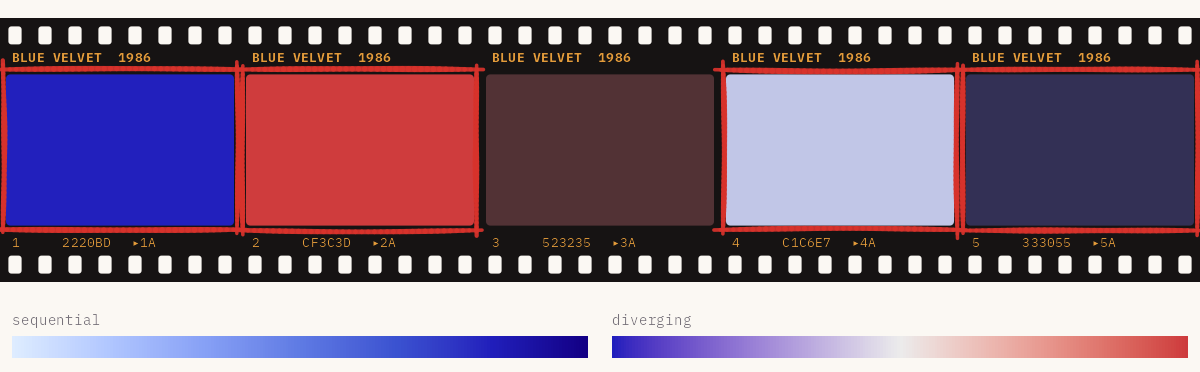
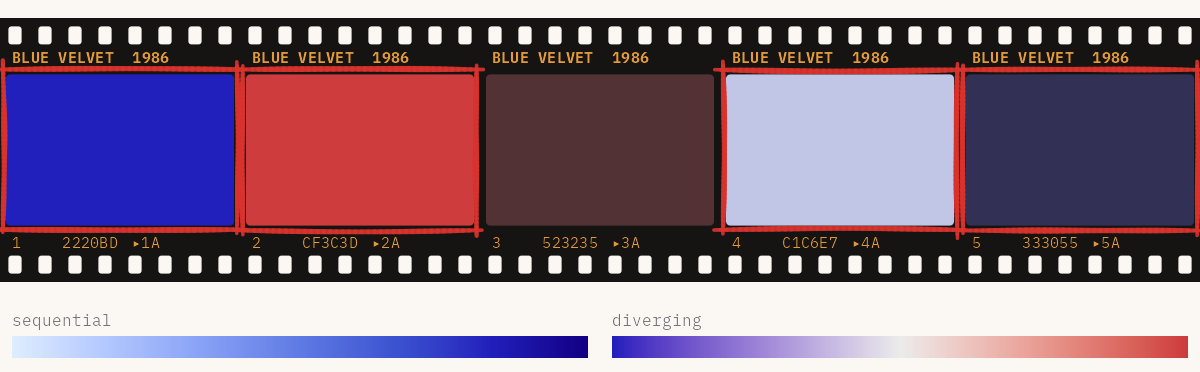
README: one block per palette, with its poster beside the film strip
Each film gets a heading, its Wikipedia poster next to the strip and a line
naming the palette and its _safe version. Edge print on the strips is a
little larger, since they now display at a smaller size.

Claude-Session: https://claude.ai/code/session_01BL4qFAtz49CSz4vjU8exbg

diff --git a/docs/index.html b/docs/index.html
@@ -101,22 +101,97 @@
 <div class="section level2">
 <h2 id="the-palettes">The palettes<a class="anchor" aria-label="anchor" href="#the-palettes"></a>
 </h2>
-<p>Most palettes were sampled from stills collected in <a href="https://www.pinterest.se/pin/151152131226891232/" class="external-link">this Pinterest pin</a>. The posters, shown from Wikipedia, are there to hold up against the colours. Twin Peaks gets the poster for <em>Fire Walk with Me</em>, the film.</p>
-<p>
-<a href="https://en.wikipedia.org/wiki/Blue_Velvet_(film)" class="external-link"><img src="https://upload.wikimedia.org/wikipedia/en/f/fd/Blue_Velvet_%281986%29.png" alt="Blue Velvet poster" height="150"></a> <a href="https://en.wikipedia.org/wiki/Dune_(1984_film)" class="external-link"><img src="https://upload.wikimedia.org/wikipedia/en/5/51/Dune_1984_Poster.jpg" alt="Dune (1984) poster" height="150"></a> <a href="https://en.wikipedia.org/wiki/Lost_Highway_(film)" class="external-link"><img src="https://upload.wikimedia.org/wikipedia/en/4/47/Lost_Higway_%281997%29.png" alt="Lost Highway poster" height="150"></a> <a href="https://en.wikipedia.org/wiki/Mulholland_Drive_(film)" class="external-link"><img src="https://upload.wikimedia.org/wikipedia/en/0/0f/Mulholland.png" alt="Mulholland Drive poster" height="150"></a> <a href="https://en.wikipedia.org/wiki/Twin_Peaks:_Fire_Walk_with_Me" class="external-link"><img src="https://upload.wikimedia.org/wikipedia/en/3/3d/Twin_Peaks_-_Fire_Walk_with_Me.png" alt="Twin Peaks: Fire Walk with Me poster" height="150"></a> <a href="https://en.wikipedia.org/wiki/Wild_at_Heart_(film)" class="external-link"><img src="https://upload.wikimedia.org/wikipedia/en/6/60/Wild_at_Heart_film_poster.jpg" alt="Wild at Heart poster" height="150"></a>
-</p>
-<p><a href="https://en.wikipedia.org/wiki/Blue_Velvet_(film)" class="external-link"><strong>Blue Velvet</strong></a> · <code>"blue_velvet"</code> · boxed frames are colour-blind safe: <code>"blue_velvet_safe"</code></p>
-<p><img src="reference/figures/card-blue_velvet.png" alt="Blue Velvet palette as a strip of film: five colour frames, the colour-blind-safe ones boxed in red marker, sequential and diverging ramps." width="100%"></p>
-<p><a href="https://en.wikipedia.org/wiki/Dune_(1984_film)" class="external-link"><strong>Dune</strong></a> · <code>"dune"</code> · boxed frames are colour-blind safe: <code>"dune_safe"</code></p>
-<p><img src="reference/figures/card-dune.png" alt="Dune palette as a strip of film: five colour frames, the colour-blind-safe ones boxed in red marker and a sequential ramp." width="100%"></p>
-<p><a href="https://en.wikipedia.org/wiki/Lost_Highway_(film)" class="external-link"><strong>Lost Highway</strong></a> · <code>"lost_highway"</code> · all five colours are colour-blind safe</p>
-<p><img src="reference/figures/card-lost_highway.png" alt="Lost Highway palette as a strip of film: five colour frames, all colour-blind safe, and a sequential ramp." width="100%"></p>
-<p><a href="https://en.wikipedia.org/wiki/Mulholland_Drive_(film)" class="external-link"><strong>Mulholland Drive</strong></a> · <code>"mulholland_drive"</code> · boxed frames are colour-blind safe: <code>"mulholland_drive_safe"</code></p>
-<p><img src="reference/figures/card-mulholland_drive.png" alt="Mulholland Drive palette as a strip of film: five colour frames, the colour-blind-safe ones boxed in red marker, sequential and diverging ramps." width="100%"></p>
-<p><a href="https://en.wikipedia.org/wiki/Twin_Peaks" class="external-link"><strong>Twin Peaks</strong></a> · <code>"twin_peaks"</code> · boxed frames are colour-blind safe: <code>"twin_peaks_safe"</code></p>
-<p><img src="reference/figures/card-twin_peaks.png" alt="Twin Peaks palette as a strip of film: five colour frames, the colour-blind-safe ones boxed in red marker, sequential and diverging ramps." width="100%"></p>
-<p><a href="https://en.wikipedia.org/wiki/Wild_at_Heart_(film)" class="external-link"><strong>Wild at Heart</strong></a> · <code>"wild_at_heart"</code> · boxed frames are colour-blind safe: <code>"wild_at_heart_safe"</code></p>
-<p><img src="reference/figures/card-wild_at_heart.png" alt="Wild at Heart palette as a strip of film: five colour frames, the colour-blind-safe ones boxed in red marker, sequential and diverging ramps." width="100%"></p>
+<p>Most palettes were sampled from stills collected in <a href="https://www.pinterest.se/pin/151152131226891232/" class="external-link">this Pinterest pin</a>. Each one sits beside the film’s poster from Wikipedia, so you can hold the two up against each other.</p>
+<div class="section level3">
+<h3 id="blue-velvet-1986">
+<a href="https://en.wikipedia.org/wiki/Blue_Velvet_(film)" class="external-link">Blue Velvet</a> (1986)<a class="anchor" aria-label="anchor" href="#blue-velvet-1986"></a>
+</h3>
+<table class="table"><tr>
+<td width="18%">
+<a href="https://en.wikipedia.org/wiki/Blue_Velvet_(film)" class="external-link"><img src="https://upload.wikimedia.org/wikipedia/en/f/fd/Blue_Velvet_%281986%29.png" alt="Blue Velvet poster" width="100%"></a>
+</td>
+<td>
+<img src="reference/figures/card-blue_velvet.png" alt="Blue Velvet palette as a strip of film: five colour frames, the colour-blind-safe ones boxed in red marker, sequential and diverging ramps." width="100%">
+</td>
+</tr></table>
+<p><code>"blue_velvet"</code> · Boxed frames are colour-blind safe: <code>"blue_velvet_safe"</code>.</p>
+<p><br></p>
+</div>
+<div class="section level3">
+<h3 id="dune-1984">
+<a href="https://en.wikipedia.org/wiki/Dune_(1984_film)" class="external-link">Dune</a> (1984)<a class="anchor" aria-label="anchor" href="#dune-1984"></a>
+</h3>
+<table class="table"><tr>
+<td width="18%">
+<a href="https://en.wikipedia.org/wiki/Dune_(1984_film)" class="external-link"><img src="https://upload.wikimedia.org/wikipedia/en/5/51/Dune_1984_Poster.jpg" alt="Dune (1984) poster" width="100%"></a>
+</td>
+<td>
+<img src="reference/figures/card-dune.png" alt="Dune palette as a strip of film: five colour frames, the colour-blind-safe ones boxed in red marker and a sequential ramp." width="100%">
+</td>
+</tr></table>
+<p><code>"dune"</code> · Boxed frames are colour-blind safe: <code>"dune_safe"</code>.</p>
+<p><br></p>
+</div>
+<div class="section level3">
+<h3 id="lost-highway-1997">
+<a href="https://en.wikipedia.org/wiki/Lost_Highway_(film)" class="external-link">Lost Highway</a> (1997)<a class="anchor" aria-label="anchor" href="#lost-highway-1997"></a>
+</h3>
+<table class="table"><tr>
+<td width="18%">
+<a href="https://en.wikipedia.org/wiki/Lost_Highway_(film)" class="external-link"><img src="https://upload.wikimedia.org/wikipedia/en/4/47/Lost_Higway_%281997%29.png" alt="Lost Highway poster" width="100%"></a>
+</td>
+<td>
+<img src="reference/figures/card-lost_highway.png" alt="Lost Highway palette as a strip of film: five colour frames, all colour-blind safe, and a sequential ramp." width="100%">
+</td>
+</tr></table>
+<p><code>"lost_highway"</code> · All five colours are colour-blind safe.</p>
+<p><br></p>
+</div>
+<div class="section level3">
+<h3 id="mulholland-drive-2001">
+<a href="https://en.wikipedia.org/wiki/Mulholland_Drive_(film)" class="external-link">Mulholland Drive</a> (2001)<a class="anchor" aria-label="anchor" href="#mulholland-drive-2001"></a>
+</h3>
+<table class="table"><tr>
+<td width="18%">
+<a href="https://en.wikipedia.org/wiki/Mulholland_Drive_(film)" class="external-link"><img src="https://upload.wikimedia.org/wikipedia/en/0/0f/Mulholland.png" alt="Mulholland Drive poster" width="100%"></a>
+</td>
+<td>
+<img src="reference/figures/card-mulholland_drive.png" alt="Mulholland Drive palette as a strip of film: five colour frames, the colour-blind-safe ones boxed in red marker, sequential and diverging ramps." width="100%">
+</td>
+</tr></table>
+<p><code>"mulholland_drive"</code> · Boxed frames are colour-blind safe: <code>"mulholland_drive_safe"</code>.</p>
+<p><br></p>
+</div>
+<div class="section level3">
+<h3 id="twin-peaks-199091">
+<a href="https://en.wikipedia.org/wiki/Twin_Peaks" class="external-link">Twin Peaks</a> (1990–91)<a class="anchor" aria-label="anchor" href="#twin-peaks-199091"></a>
+</h3>
+<table class="table"><tr>
+<td width="18%">
+<a href="https://en.wikipedia.org/wiki/Twin_Peaks" class="external-link"><img src="https://upload.wikimedia.org/wikipedia/en/3/3d/Twin_Peaks_-_Fire_Walk_with_Me.png" alt="Twin Peaks: Fire Walk with Me poster" width="100%"></a>
+</td>
+<td>
+<img src="reference/figures/card-twin_peaks.png" alt="Twin Peaks palette as a strip of film: five colour frames, the colour-blind-safe ones boxed in red marker, sequential and diverging ramps." width="100%">
+</td>
+</tr></table>
+<p><code>"twin_peaks"</code> · Boxed frames are colour-blind safe: <code>"twin_peaks_safe"</code>. The poster is for <em>Fire Walk with Me</em> (1992), the film.</p>
+<p><br></p>
+</div>
+<div class="section level3">
+<h3 id="wild-at-heart-1990">
+<a href="https://en.wikipedia.org/wiki/Wild_at_Heart_(film)" class="external-link">Wild at Heart</a> (1990)<a class="anchor" aria-label="anchor" href="#wild-at-heart-1990"></a>
+</h3>
+<table class="table"><tr>
+<td width="18%">
+<a href="https://en.wikipedia.org/wiki/Wild_at_Heart_(film)" class="external-link"><img src="https://upload.wikimedia.org/wikipedia/en/6/60/Wild_at_Heart_film_poster.jpg" alt="Wild at Heart poster" width="100%"></a>
+</td>
+<td>
+<img src="reference/figures/card-wild_at_heart.png" alt="Wild at Heart palette as a strip of film: five colour frames, the colour-blind-safe ones boxed in red marker, sequential and diverging ramps." width="100%">
+</td>
+</tr></table>
+<p><code>"wild_at_heart"</code> · Boxed frames are colour-blind safe: <code>"wild_at_heart_safe"</code>.</p>
+<p><br></p>
+</div>
 </div>
 <div class="section level2">
 <h2 id="colour-blindness">Colour blindness<a class="anchor" aria-label="anchor" href="#colour-blindness"></a>

diff --git a/README.md b/README.md
@@ -64,40 +64,85 @@ ggplot(faithfuld, aes(waiting, eruptions, fill = density)) +
 
 ## The palettes
 
-Most palettes were sampled from stills collected in [this Pinterest pin](https://www.pinterest.se/pin/151152131226891232/). The posters, shown from Wikipedia, are there to hold up against the colours. Twin Peaks gets the poster for *Fire Walk with Me*, the film.
+Most palettes were sampled from stills collected in [this Pinterest pin](https://www.pinterest.se/pin/151152131226891232/). Each one sits beside the film's poster from Wikipedia, so you can hold the two up against each other.
 
-<p>
-<a href="https://en.wikipedia.org/wiki/Blue_Velvet_(film)"><img src="https://upload.wikimedia.org/wikipedia/en/f/fd/Blue_Velvet_%281986%29.png" alt="Blue Velvet poster" height="150" /></a>
-<a href="https://en.wikipedia.org/wiki/Dune_(1984_film)"><img src="https://upload.wikimedia.org/wikipedia/en/5/51/Dune_1984_Poster.jpg" alt="Dune (1984) poster" height="150" /></a>
-<a href="https://en.wikipedia.org/wiki/Lost_Highway_(film)"><img src="https://upload.wikimedia.org/wikipedia/en/4/47/Lost_Higway_%281997%29.png" alt="Lost Highway poster" height="150" /></a>
-<a href="https://en.wikipedia.org/wiki/Mulholland_Drive_(film)"><img src="https://upload.wikimedia.org/wikipedia/en/0/0f/Mulholland.png" alt="Mulholland Drive poster" height="150" /></a>
-<a href="https://en.wikipedia.org/wiki/Twin_Peaks:_Fire_Walk_with_Me"><img src="https://upload.wikimedia.org/wikipedia/en/3/3d/Twin_Peaks_-_Fire_Walk_with_Me.png" alt="Twin Peaks: Fire Walk with Me poster" height="150" /></a>
-<a href="https://en.wikipedia.org/wiki/Wild_at_Heart_(film)"><img src="https://upload.wikimedia.org/wikipedia/en/6/60/Wild_at_Heart_film_poster.jpg" alt="Wild at Heart poster" height="150" /></a>
-</p>
+### [Blue Velvet](https://en.wikipedia.org/wiki/Blue_Velvet_(film)) (1986)
 
-[**Blue Velvet**](https://en.wikipedia.org/wiki/Blue_Velvet_(film)) · `"blue_velvet"` · boxed frames are colour-blind safe: `"blue_velvet_safe"`
+<table>
+<tr>
+<td width="18%"><a href="https://en.wikipedia.org/wiki/Blue_Velvet_(film)"><img src="https://upload.wikimedia.org/wikipedia/en/f/fd/Blue_Velvet_%281986%29.png" alt="Blue Velvet poster" width="100%" /></a></td>
+<td><img src="man/figures/card-blue_velvet.png" alt="Blue Velvet palette as a strip of film: five colour frames, the colour-blind-safe ones boxed in red marker, sequential and diverging ramps." width="100%" /></td>
+</tr>
+</table>
 
-<img src="man/figures/card-blue_velvet.png" alt="Blue Velvet palette as a strip of film: five colour frames, the colour-blind-safe ones boxed in red marker, sequential and diverging ramps." width="100%" />
+`"blue_velvet"` · Boxed frames are colour-blind safe: `"blue_velvet_safe"`.
 
-[**Dune**](https://en.wikipedia.org/wiki/Dune_(1984_film)) · `"dune"` · boxed frames are colour-blind safe: `"dune_safe"`
+<br>
 
-<img src="man/figures/card-dune.png" alt="Dune palette as a strip of film: five colour frames, the colour-blind-safe ones boxed in red marker and a sequential ramp." width="100%" />
+### [Dune](https://en.wikipedia.org/wiki/Dune_(1984_film)) (1984)
 
-[**Lost Highway**](https://en.wikipedia.org/wiki/Lost_Highway_(film)) · `"lost_highway"` · all five colours are colour-blind safe
+<table>
+<tr>
+<td width="18%"><a href="https://en.wikipedia.org/wiki/Dune_(1984_film)"><img src="https://upload.wikimedia.org/wikipedia/en/5/51/Dune_1984_Poster.jpg" alt="Dune (1984) poster" width="100%" /></a></td>
+<td><img src="man/figures/card-dune.png" alt="Dune palette as a strip of film: five colour frames, the colour-blind-safe ones boxed in red marker and a sequential ramp." width="100%" /></td>
+</tr>
+</table>
 
-<img src="man/figures/card-lost_highway.png" alt="Lost Highway palette as a strip of film: five colour frames, all colour-blind safe, and a sequential ramp." width="100%" />
+`"dune"` · Boxed frames are colour-blind safe: `"dune_safe"`.
 
-[**Mulholland Drive**](https://en.wikipedia.org/wiki/Mulholland_Drive_(film)) · `"mulholland_drive"` · boxed frames are colour-blind safe: `"mulholland_drive_safe"`
+<br>
 
-<img src="man/figures/card-mulholland_drive.png" alt="Mulholland Drive palette as a strip of film: five colour frames, the colour-blind-safe ones boxed in red marker, sequential and diverging ramps." width="100%" />
+### [Lost Highway](https://en.wikipedia.org/wiki/Lost_Highway_(film)) (1997)
 
-[**Twin Peaks**](https://en.wikipedia.org/wiki/Twin_Peaks) · `"twin_peaks"` · boxed frames are colour-blind safe: `"twin_peaks_safe"`
+<table>
+<tr>
+<td width="18%"><a href="https://en.wikipedia.org/wiki/Lost_Highway_(film)"><img src="https://upload.wikimedia.org/wikipedia/en/4/47/Lost_Higway_%281997%29.png" alt="Lost Highway poster" width="100%" /></a></td>
+<td><img src="man/figures/card-lost_highway.png" alt="Lost Highway palette as a strip of film: five colour frames, all colour-blind safe, and a sequential ramp." width="100%" /></td>
+</tr>
+</table>
 
-<img src="man/figures/card-twin_peaks.png" alt="Twin Peaks palette as a strip of film: five colour frames, the colour-blind-safe ones boxed in red marker, sequential and diverging ramps." width="100%" />
+`"lost_highway"` · All five colours are colour-blind safe.
 
-[**Wild at Heart**](https://en.wikipedia.org/wiki/Wild_at_Heart_(film)) · `"wild_at_heart"` · boxed frames are colour-blind safe: `"wild_at_heart_safe"`
+<br>
 
-<img src="man/figures/card-wild_at_heart.png" alt="Wild at Heart palette as a strip of film: five colour frames, the colour-blind-safe ones boxed in red marker, sequential and diverging ramps." width="100%" />
+### [Mulholland Drive](https://en.wikipedia.org/wiki/Mulholland_Drive_(film)) (2001)
+
+<table>
+<tr>
+<td width="18%"><a href="https://en.wikipedia.org/wiki/Mulholland_Drive_(film)"><img src="https://upload.wikimedia.org/wikipedia/en/0/0f/Mulholland.png" alt="Mulholland Drive poster" width="100%" /></a></td>
+<td><img src="man/figures/card-mulholland_drive.png" alt="Mulholland Drive palette as a strip of film: five colour frames, the colour-blind-safe ones boxed in red marker, sequential and diverging ramps." width="100%" /></td>
+</tr>
+</table>
+
+`"mulholland_drive"` · Boxed frames are colour-blind safe: `"mulholland_drive_safe"`.
+
+<br>
+
+### [Twin Peaks](https://en.wikipedia.org/wiki/Twin_Peaks) (1990–91)
+
+<table>
+<tr>
+<td width="18%"><a href="https://en.wikipedia.org/wiki/Twin_Peaks"><img src="https://upload.wikimedia.org/wikipedia/en/3/3d/Twin_Peaks_-_Fire_Walk_with_Me.png" alt="Twin Peaks: Fire Walk with Me poster" width="100%" /></a></td>
+<td><img src="man/figures/card-twin_peaks.png" alt="Twin Peaks palette as a strip of film: five colour frames, the colour-blind-safe ones boxed in red marker, sequential and diverging ramps." width="100%" /></td>
+</tr>
+</table>
+
+`"twin_peaks"` · Boxed frames are colour-blind safe: `"twin_peaks_safe"`. The poster is for *Fire Walk with Me* (1992), the film.
+
+<br>
+
+### [Wild at Heart](https://en.wikipedia.org/wiki/Wild_at_Heart_(film)) (1990)
+
+<table>
+<tr>
+<td width="18%"><a href="https://en.wikipedia.org/wiki/Wild_at_Heart_(film)"><img src="https://upload.wikimedia.org/wikipedia/en/6/60/Wild_at_Heart_film_poster.jpg" alt="Wild at Heart poster" width="100%" /></a></td>
+<td><img src="man/figures/card-wild_at_heart.png" alt="Wild at Heart palette as a strip of film: five colour frames, the colour-blind-safe ones boxed in red marker, sequential and diverging ramps." width="100%" /></td>
+</tr>
+</table>
+
+`"wild_at_heart"` · Boxed frames are colour-blind safe: `"wild_at_heart_safe"`.
+
+<br>
 
 ## Colour blindness
 
